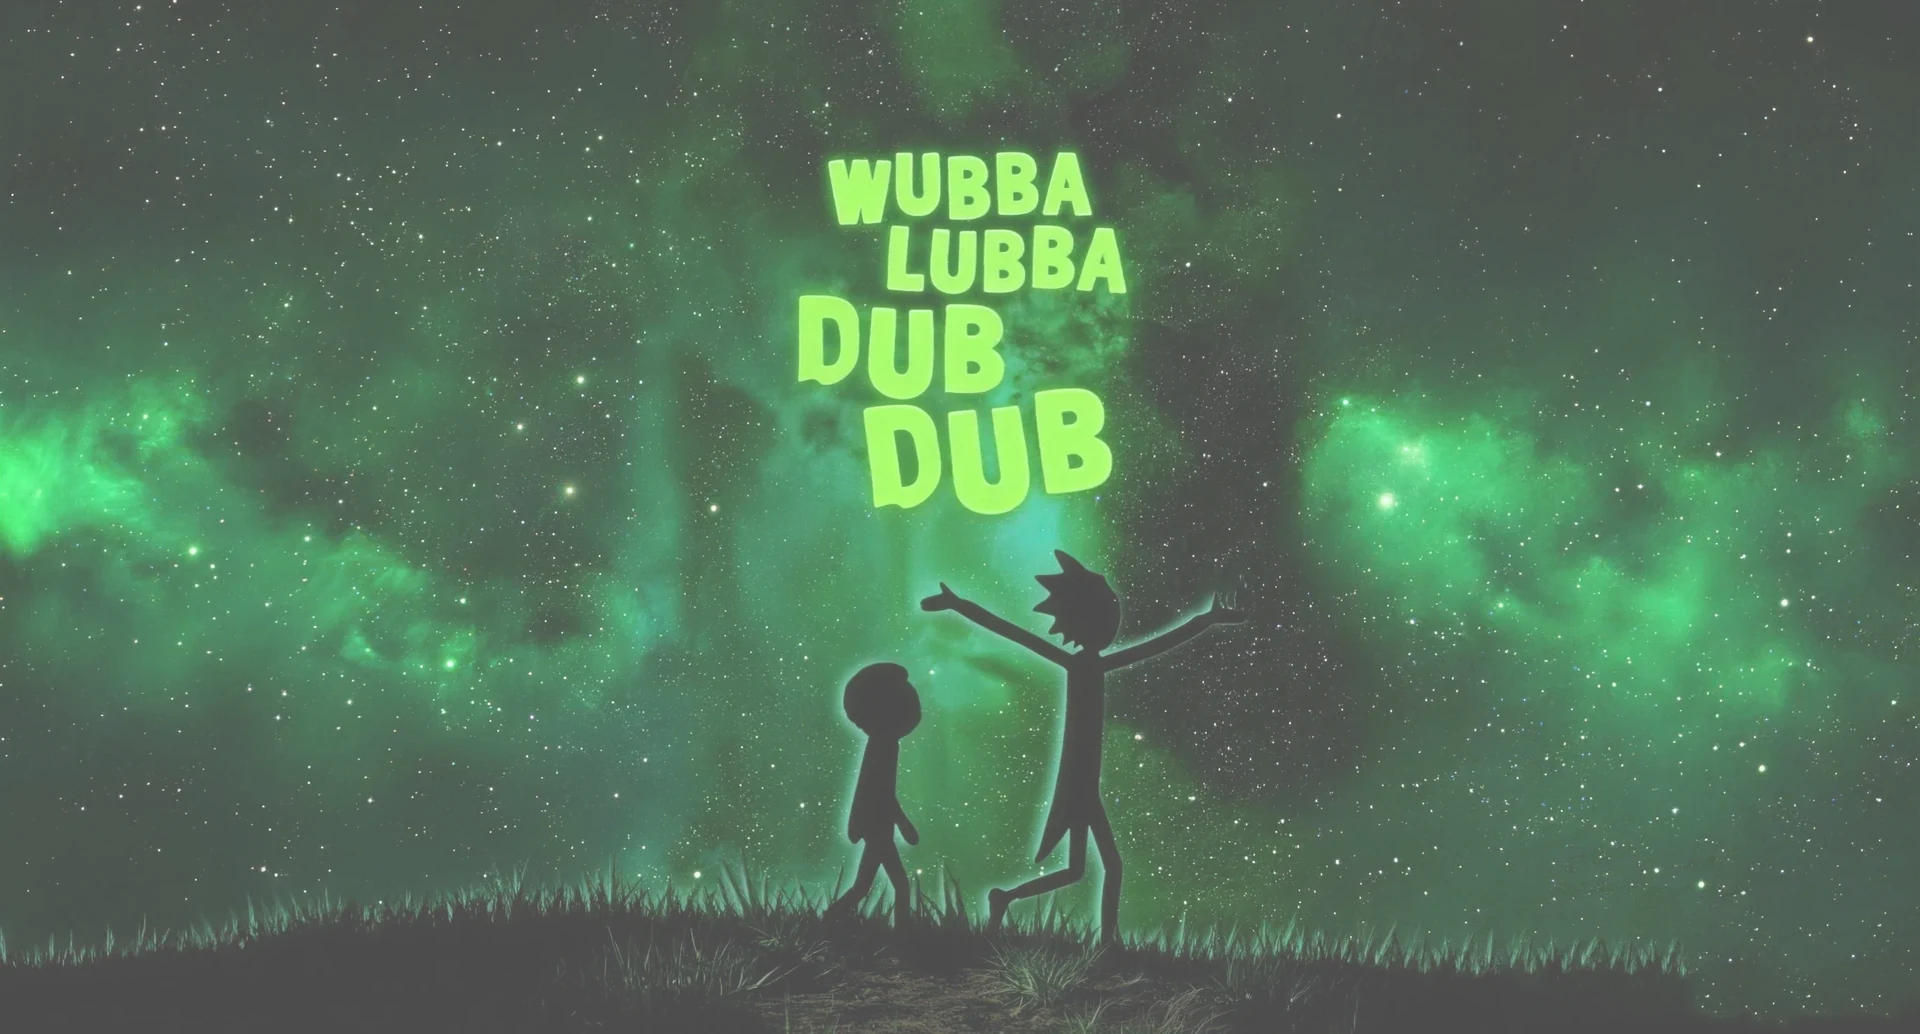
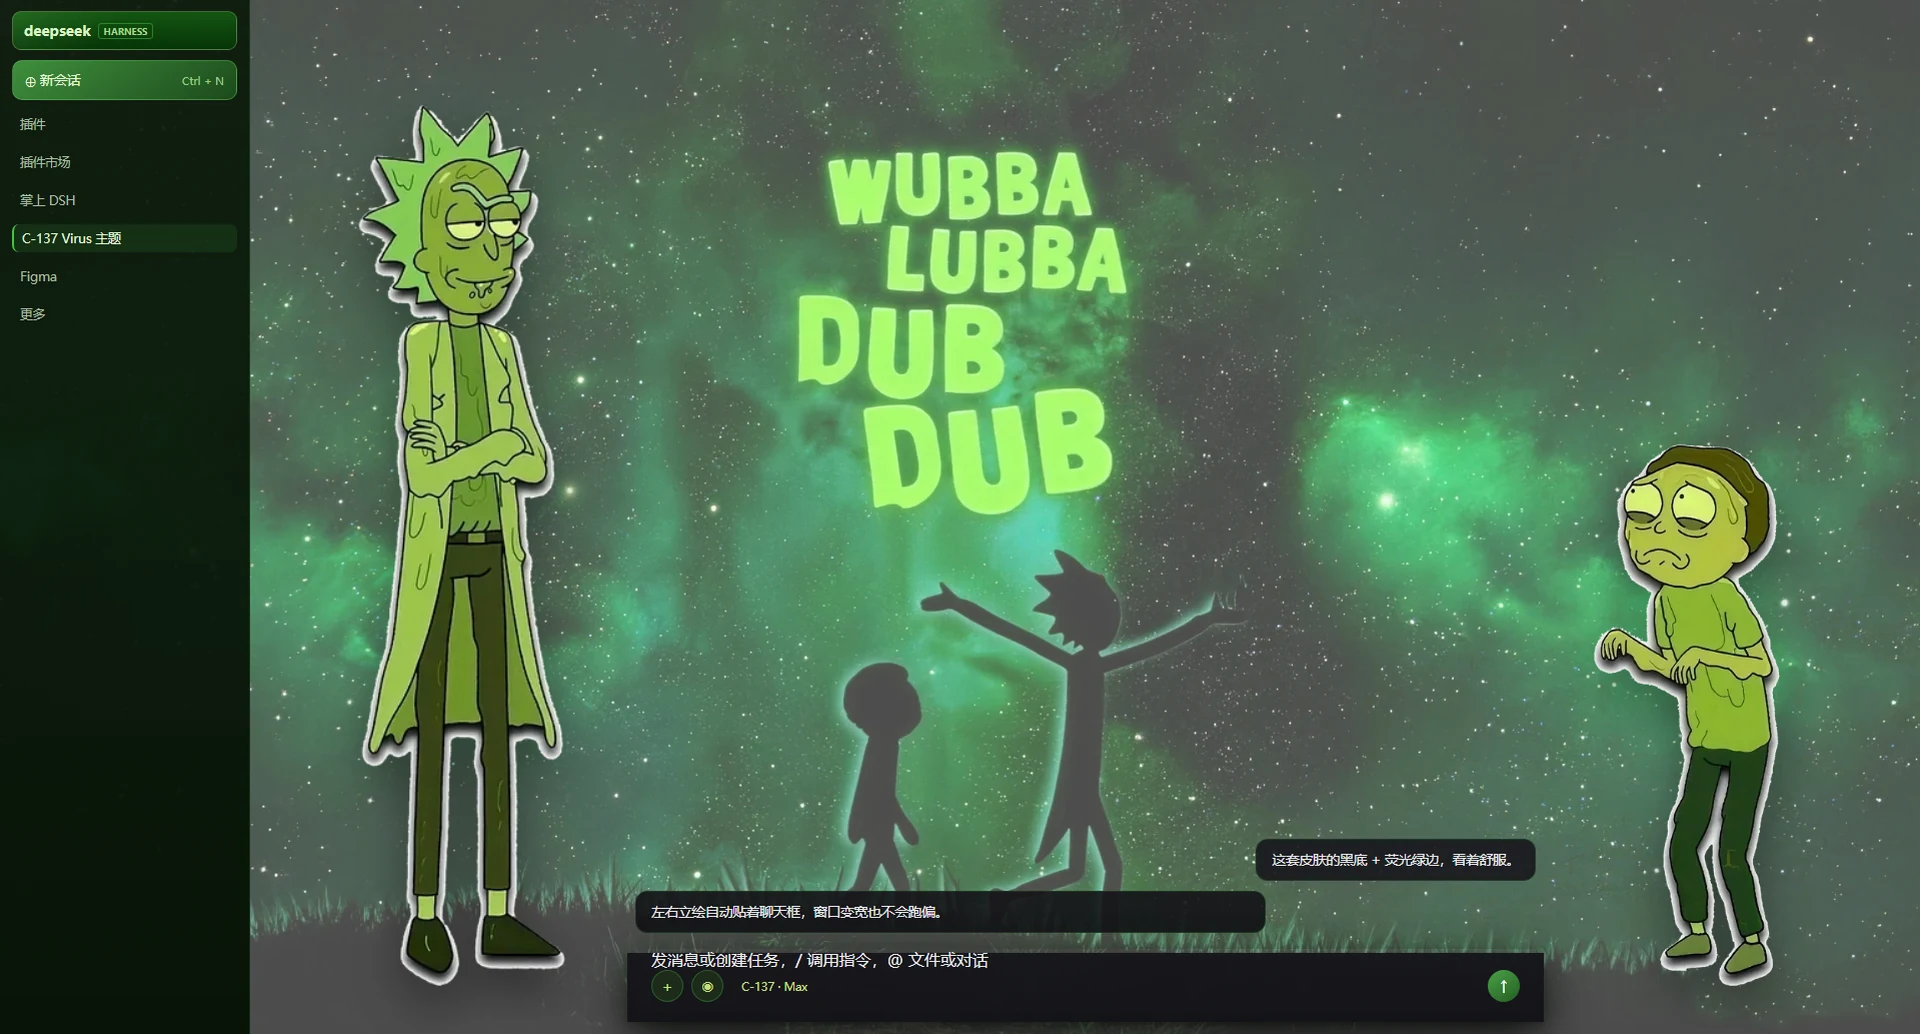
docs: replace preview with rendered interface shot

Changed region(s): [[0.1875, 0.0928, 0.8125, 1.0], [0.0, 0.0, 0.1562, 1.0], [0.8125, 0.4333, 0.9375, 0.9594]]

diff --git a/README.md b/README.md
@@ -27,14 +27,14 @@ dsh plugin --profile <你的profile> add dsh-skin-c137-virus
 
 ## 功能
 
-| 功能 | 说明 |
-|---|---|
-| 深空背景 | 亮/暗两套背景，随主题自动切换 |
-| 双角色立绘 | 左高右矮（比例 1.63:1）· 自动贴聊天框 · 底部留白不压输入框 |
+| 功能    | 说明                                      |
+| ----- | --------------------------------------- |
+| 深空背景  | 亮/暗两套背景，随主题自动切换                         |
+| 双角色立绘 | 左高右矮（比例 1.63:1）· 自动贴聊天框 · 底部留白不压输入框     |
 | 对话框外壳 | 九宫格 `border-image` · 12px 1:1 渲染 · 切缝对齐 |
-| 荧光绿光标 | `#bafa78`，深色输入区里清晰可见 |
-| 配色系统 | 黑底 + 荧光绿，代码块深底、行内代码浅底深字 |
-| 窗口适配 | 立绘高度用百分比 · 拥挤时自动隐藏一侧 · 锚点随布局实时重算 |
+| 荧光绿光标 | `#bafa78`，深色输入区里清晰可见                    |
+| 配色系统  | 黑底 + 荧光绿，代码块深底、行内代码浅底深字                 |
+| 窗口适配  | 立绘高度用百分比 · 拥挤时自动隐藏一侧 · 锚点随布局实时重算        |
 
 ## 自定义
 
